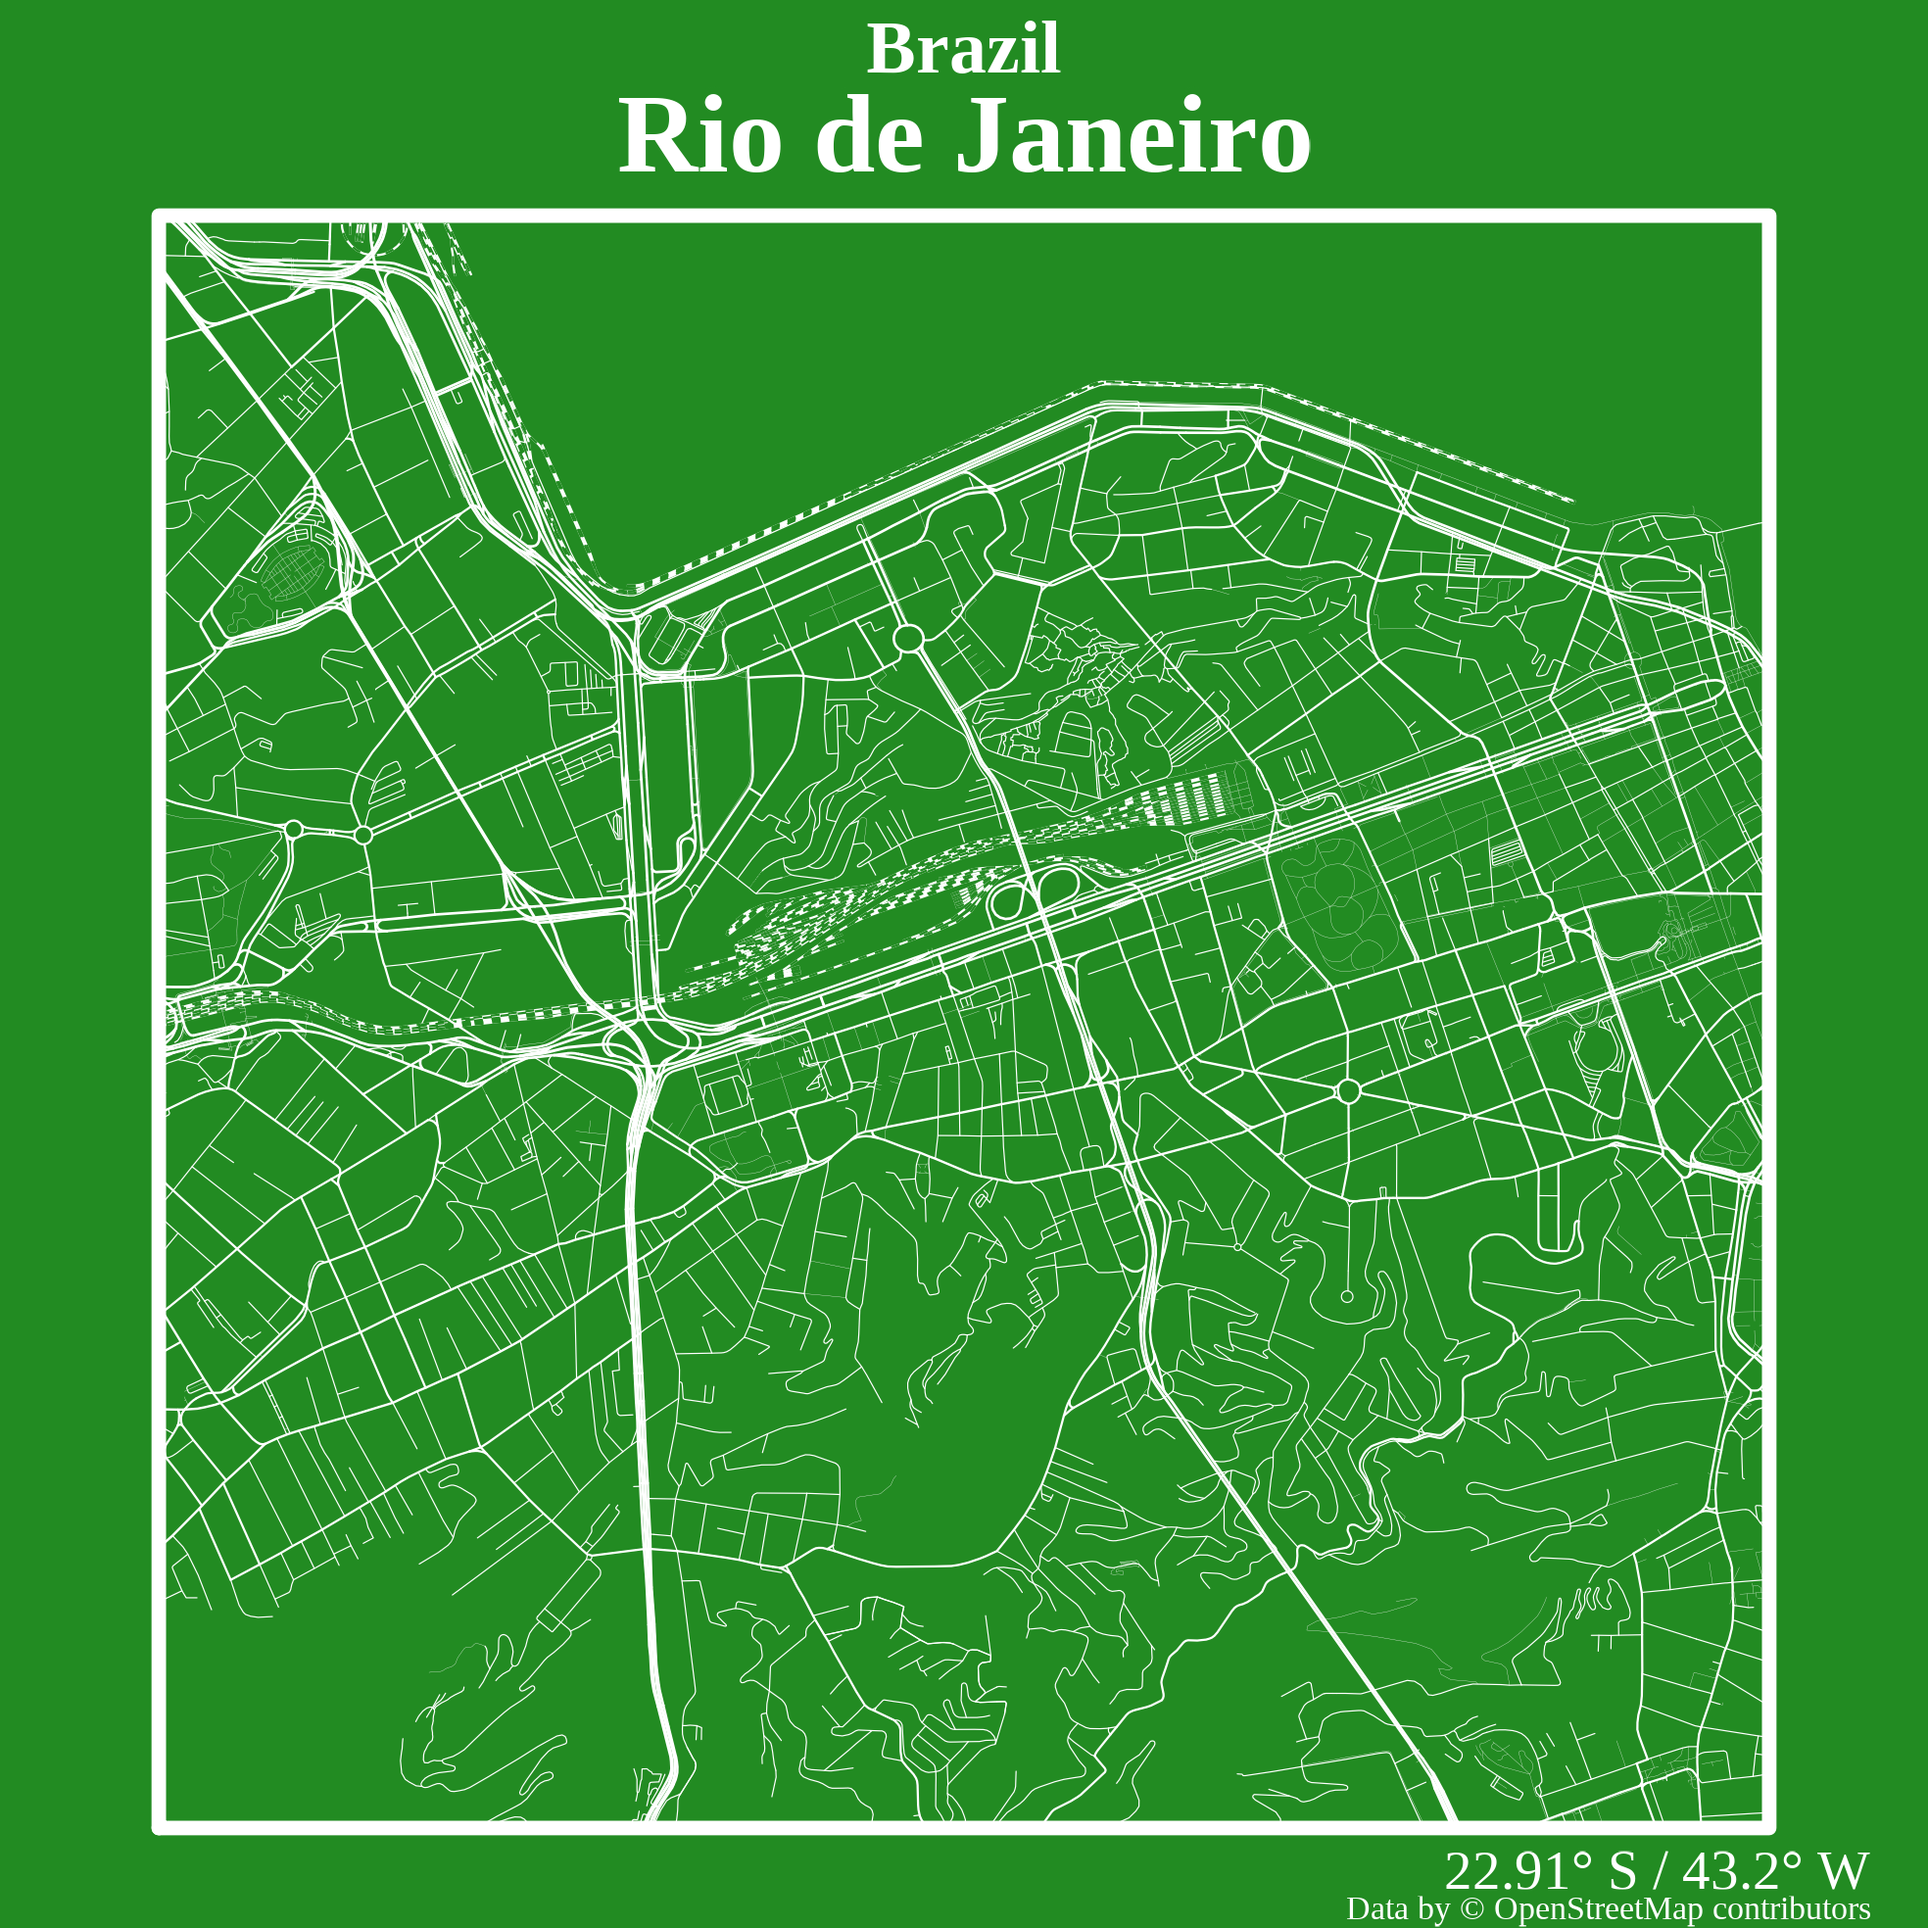
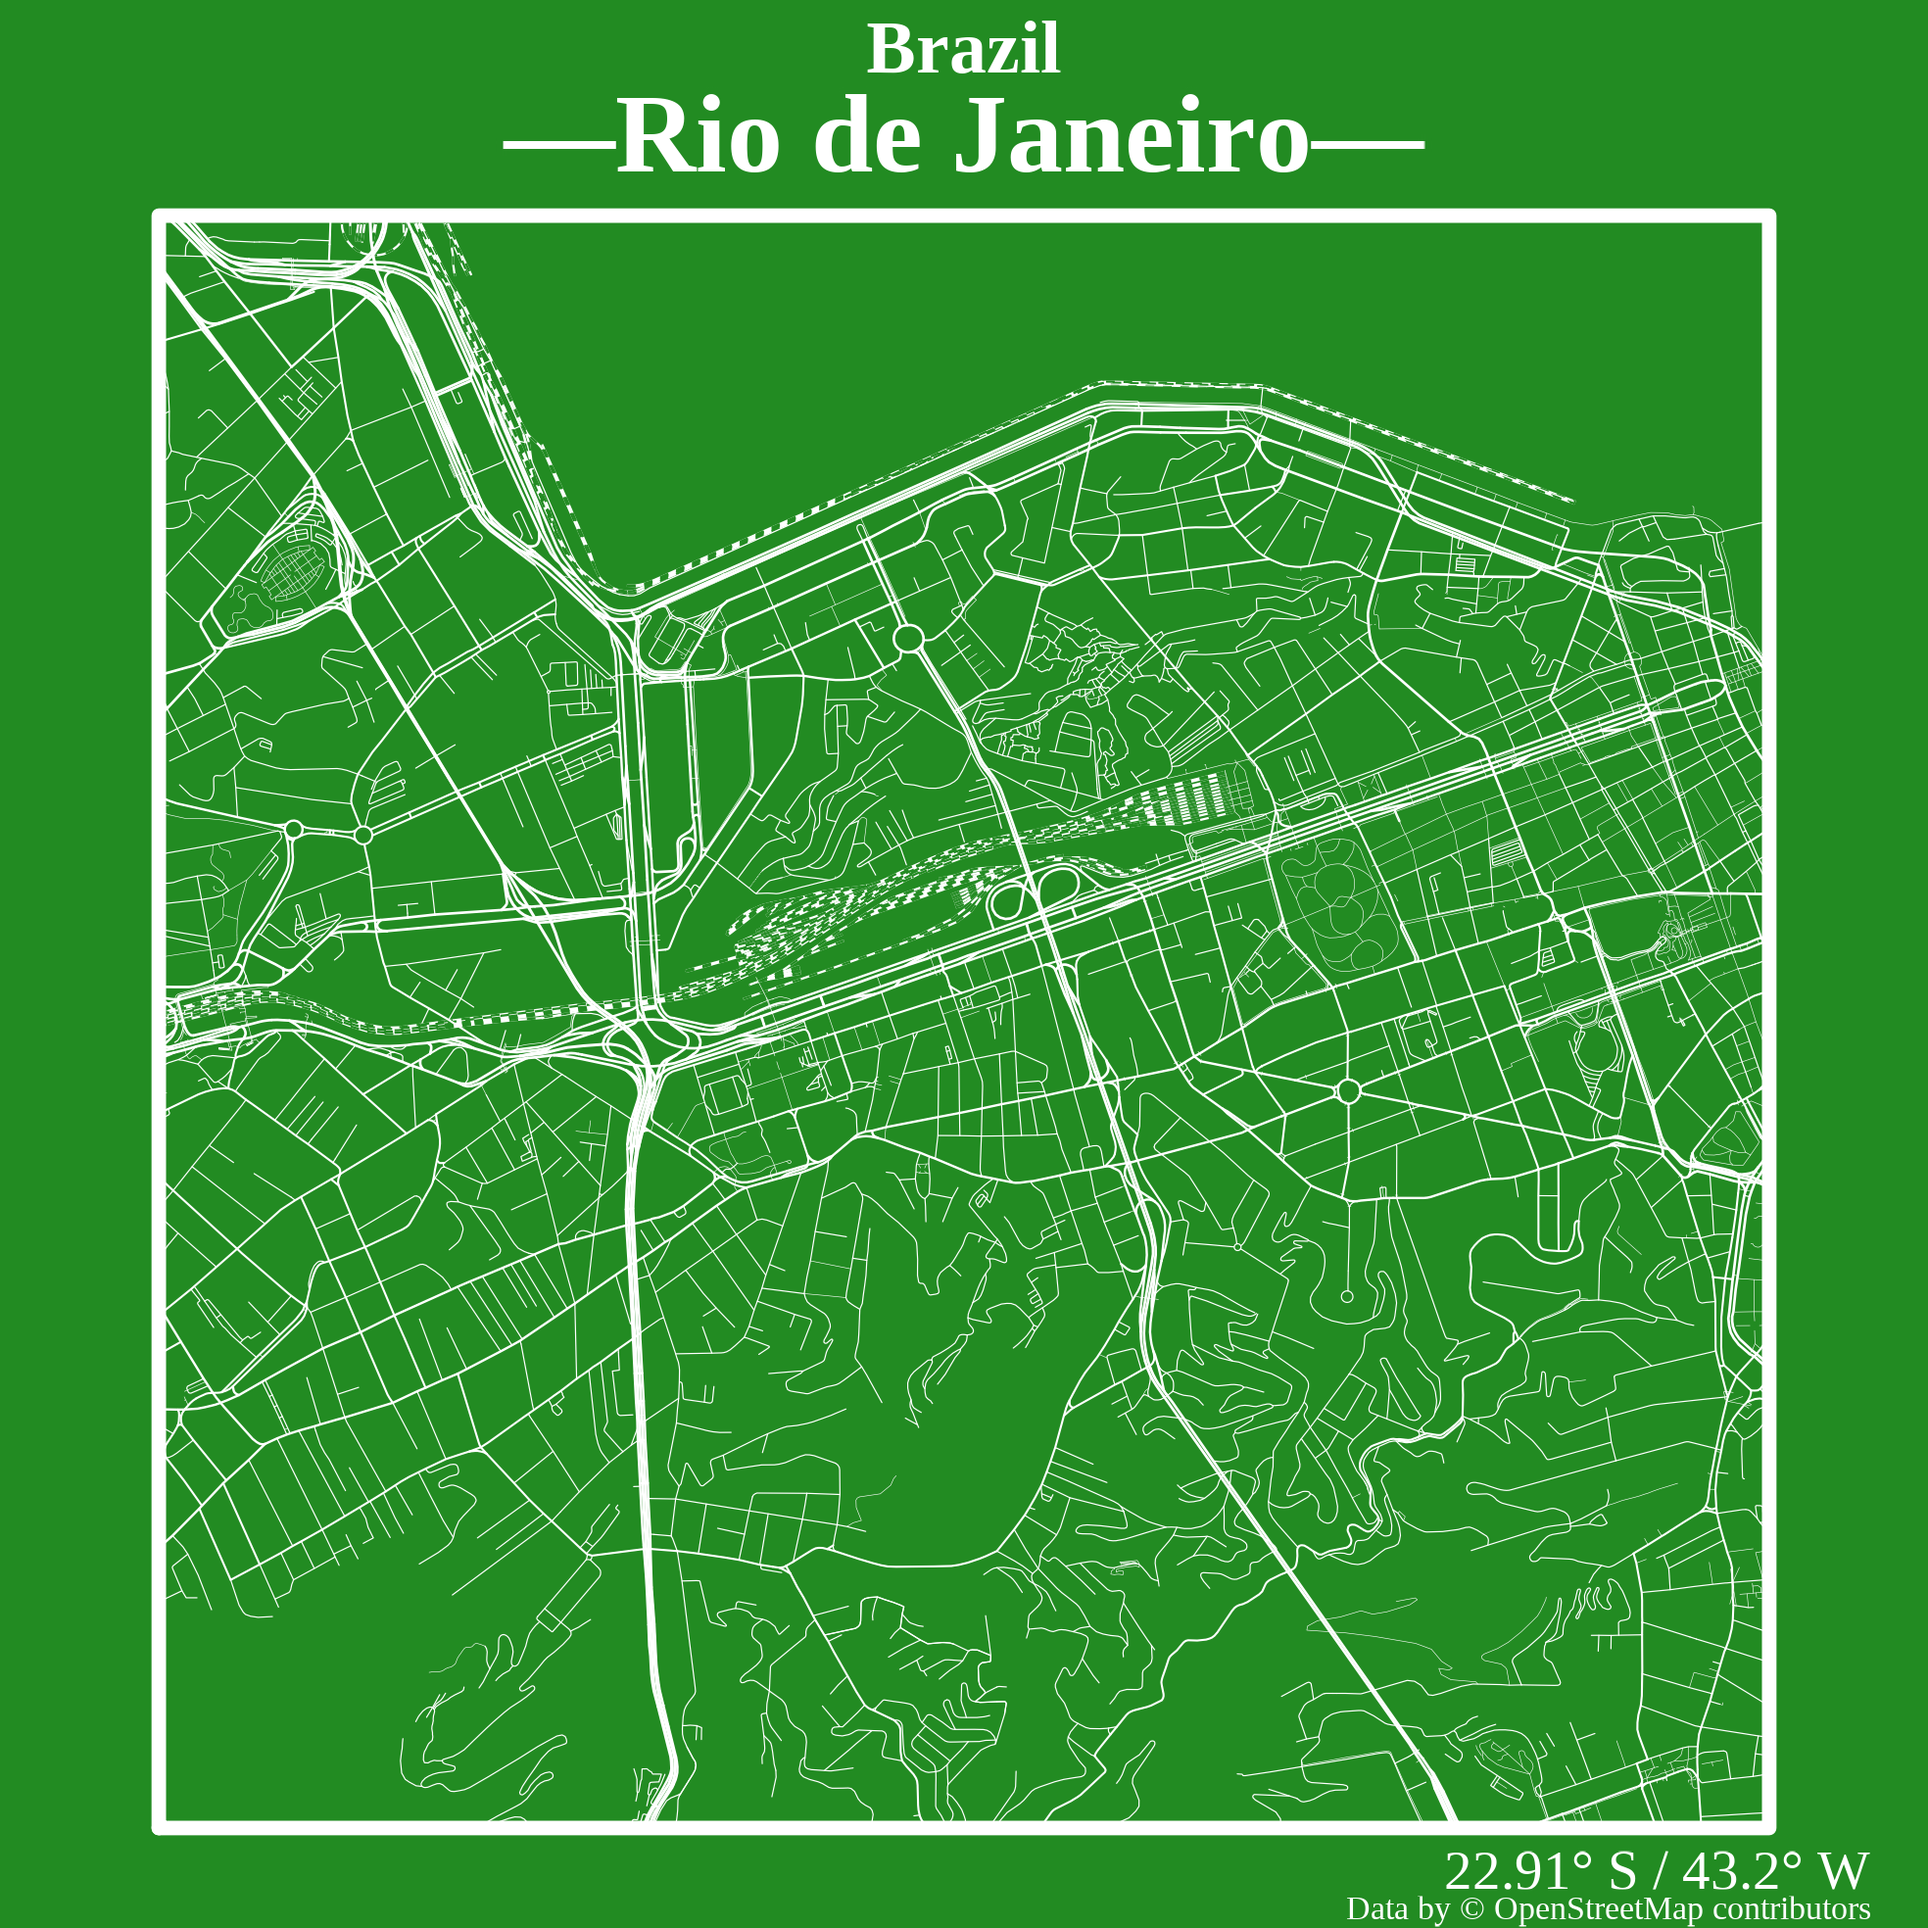
Street scaling

diff --git a/README.md b/README.md
@@ -111,7 +111,8 @@ myTheme <- list(
   ),
   font = list(
     family = "serif",
-    face = "bold"
+    face = "bold",
+    append = "\u2014"
   ),
   size = list(
     borders = list(
@@ -121,10 +122,10 @@ myTheme <- list(
       river = 0.6
     ),
     streets = list(
-      path = 0.1,
+      path = 0.2,
       residential = 0.4,
       structure = 0.5,
-      tertiary = 0.75,
+      tertiary = 0.7,
       secondary = 0.8,
       primary = 0.9,
       motorway = 1,
